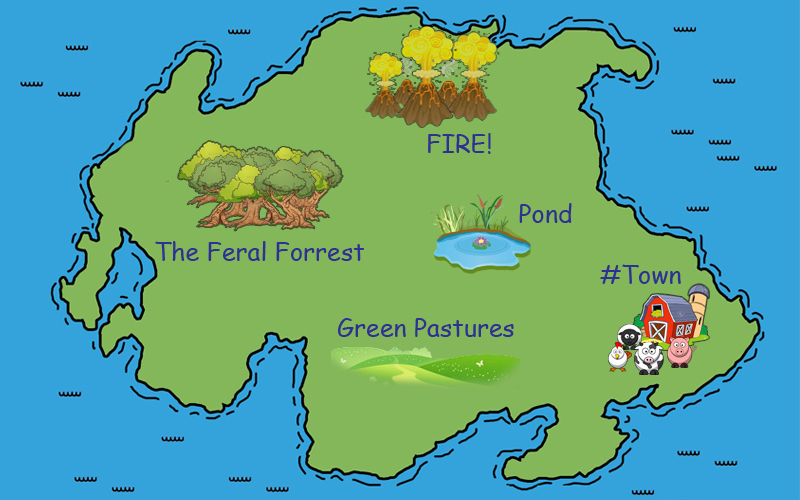
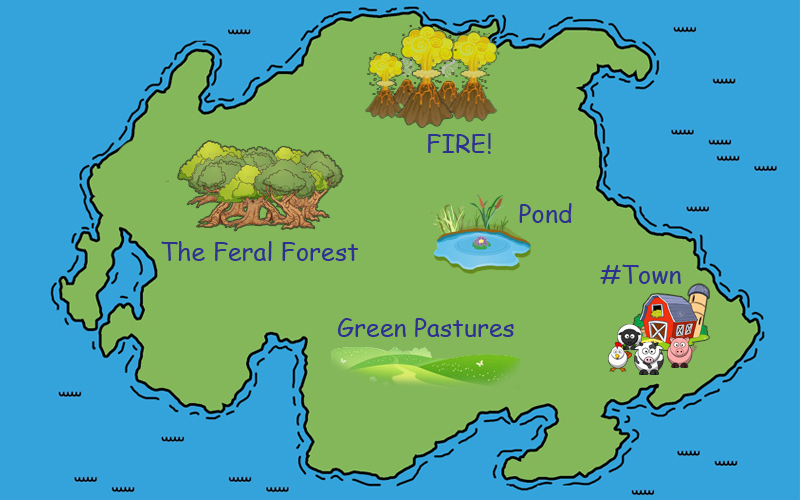
spelling, size

diff --git a/src/FarmGame/MainGUI.java b/src/FarmGame/MainGUI.java
@@ -13,7 +13,7 @@ public class MainGUI extends JFrame {
 	public MainGUI( GameEngine theGame ) {
 
 		//Open new window
-		setSize(1020, 540);
+		setSize(1020, 535);
 		setDefaultCloseOperation(JFrame.EXIT_ON_CLOSE);
 
 		//Add the level map picture	
